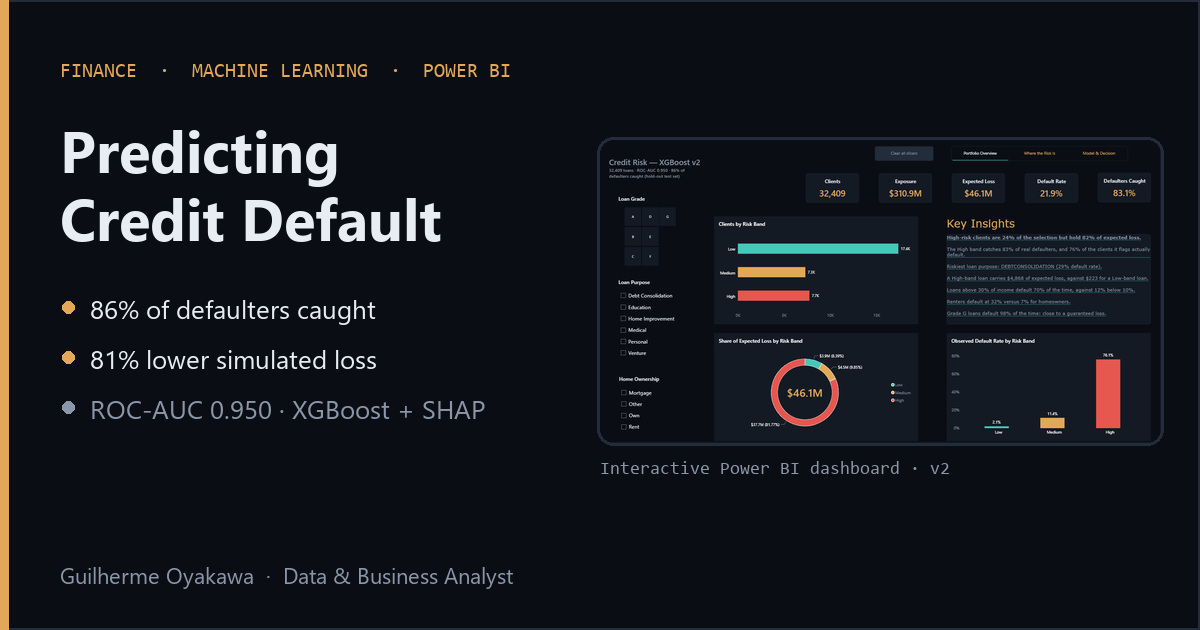
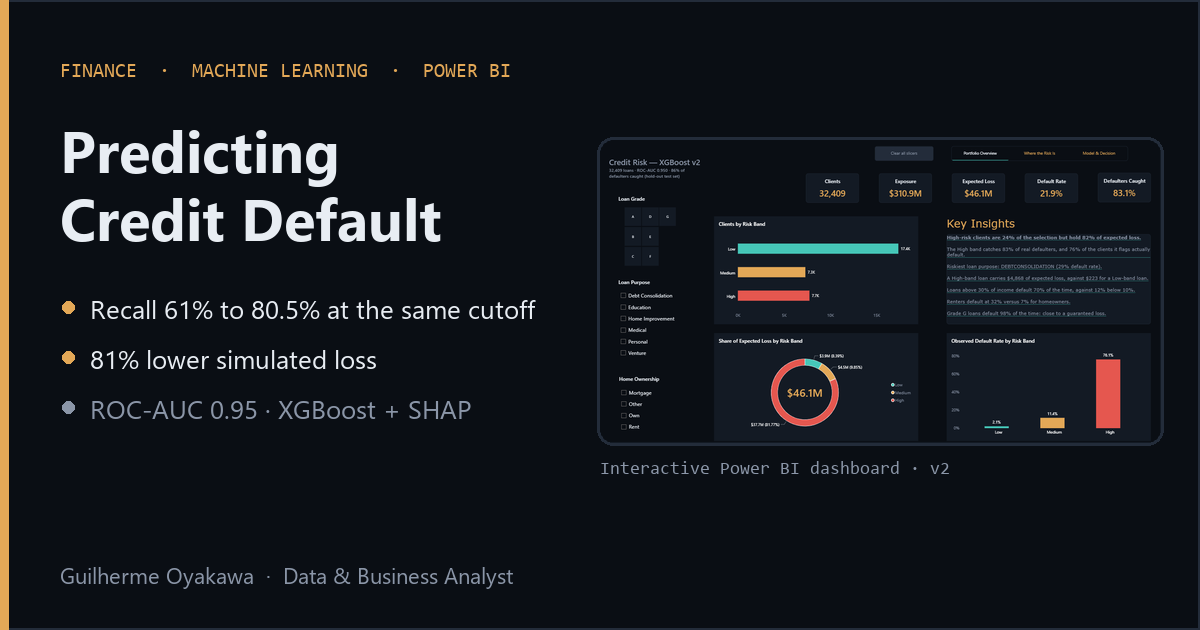
Correct the credit risk claims on the site after the v2 review
- Recall: separate the model gain (61.1% -> 80.5% at the same 0.5 cutoff, same precision) from the
  cutoff gain (80.5% -> 86.1% at 0.35, precision 83.1% -> 66.8%). Updated the hero, meta and social
  descriptions, key findings, the version-history bars and table, and the fair-comparison note,
  which no longer credits the methodology with the recall gain.
- Add the finding that the labels look rule-generated (2,339 renters with a loan of at least 31% of
  income all defaulted) and present ROC-AUC 0.95 and the 81% saving as an upper bound.
- Risk bands: label the 76.1% High band as whole-portfolio and add the held-out test figures.
- Home card and both social images (og_credit_risk, og_home) now show recall 61% -> 80.5%.

Changed region(s): [[0.0617, 0.4825, 0.4625, 0.5127], [0.2158, 0.6333, 0.4008, 0.6635]]

diff --git a/projects/credit-risk.html b/projects/credit-risk.html
@@ -4,18 +4,18 @@
 <meta charset="UTF-8">
 <meta name="viewport" content="width=device-width, initial-scale=1.0">
 <title>Predicting Credit Default — Guilherme Oyakawa</title>
-<meta name="description" content="A leakage-free XGBoost credit-default model with calibrated probabilities and SHAP explanations: 86% of defaulters caught and 81% lower simulated loss.">
+<meta name="description" content="A leakage-free XGBoost credit-default model with calibrated probabilities and SHAP explanations: recall from 61% to 80.5% at the same cutoff (86% at a recall-first cutoff) and a simulated 81% lower loss.">
 <link rel="canonical" href="https://www.guilhermeoyakawa.com.br/projects/credit-risk.html">
 <meta property="og:type" content="article">
 <meta property="og:title" content="Predicting Credit Default — Guilherme Oyakawa">
-<meta property="og:description" content="A leakage-free XGBoost credit-default model: 86% of defaulters caught and 81% lower simulated loss, with an interactive Power BI dashboard.">
+<meta property="og:description" content="A leakage-free XGBoost credit-default model: recall from 61% to 80.5% at the same cutoff (86% at a recall-first cutoff) and a simulated 81% lower loss, with an interactive Power BI dashboard.">
 <meta property="og:url" content="https://www.guilhermeoyakawa.com.br/projects/credit-risk.html">
 <meta property="og:image" content="https://www.guilhermeoyakawa.com.br/img/og_credit_risk.png">
 <meta property="og:image:width" content="1200">
 <meta property="og:image:height" content="630">
 <meta name="twitter:card" content="summary_large_image">
 <meta name="twitter:title" content="Predicting Credit Default — Guilherme Oyakawa">
-<meta name="twitter:description" content="86% of defaulters caught, 81% lower simulated loss. XGBoost, SHAP and Power BI.">
+<meta name="twitter:description" content="Recall 61% to 80.5% at the same cutoff (86% recall-first), 81% lower simulated loss. XGBoost, SHAP and Power BI.">
 <meta name="twitter:image" content="https://www.guilhermeoyakawa.com.br/img/og_credit_risk.png">
 <link rel="preconnect" href="https://fonts.googleapis.com">
 <link rel="preconnect" href="https://fonts.gstatic.com" crossorigin>
@@ -398,11 +398,11 @@
       <a class="back-link reveal" href="../index.html#projects">&larr; Back to projects</a>
       <span class="eyebrow reveal">FINANCE &middot; MACHINE LEARNING &middot; XGBOOST &middot; SHAP</span>
       <h1 class="reveal">Predicting Credit Default</h1>
-      <p class="tagline reveal">A leakage-free machine-learning pipeline that estimates every applicant's probability of default and turns it into approve / review / reject decisions &mdash; catching 86% of defaulters and cutting simulated losses by 81%.</p>
+      <p class="tagline reveal">A leakage-free machine-learning pipeline that estimates every applicant's probability of default and turns it into approve / review / reject decisions &mdash; lifting recall from 61% to 80.5% at the same cutoff (86% at a recall-first cutoff) and cutting simulated losses by 81% on this dataset.</p>
       <div class="stat-pills reveal">
         <span class="stat-pill">32,409 loans analysed</span>
-        <span class="stat-pill">ROC-AUC 0.950</span>
-        <span class="stat-pill">86% of defaulters caught</span>
+        <span class="stat-pill">ROC-AUC 0.95 (dataset ceiling)</span>
+        <span class="stat-pill">Recall 61% &rarr; 80.5% at the same cutoff</span>
         <span class="stat-pill">81% lower simulated loss</span>
       </div>
       <div class="detail-cta-row reveal">
@@ -488,11 +488,12 @@
       <span class="eyebrow reveal">Key Findings</span>
       <h2 class="reveal">What the model and the data showed</h2>
       <ul class="findings-list reveal">
-        <li><strong>86% of defaulters caught.</strong> The tuned XGBoost recalls 86.1% of defaulters (95% CI 84.7% to 87.6%) at 66.8% precision. For comparison, the original k-NN caught 61.1% at the default 0.5 cutoff.</li>
-        <li><strong>81% lower simulated loss.</strong> Using the model as a credit filter cuts the simulated loss from USD 13.97M to USD 2.67M versus approving every loan (95% CI 79.1% to 82.6%). The naive "reject grades D to G" rule saves 37.3%. Across a range of cost assumptions the saving stays between 75.5% and 84.3%.</li>
-        <li><strong>Risk bands separate clients cleanly.</strong> Observed default rates are 2.1% for Low risk (17,364 clients), 11.4% for Medium (7,302) and 76.1% for High (7,743). The High band holds about 82% of the expected loss.</li>
+        <li><strong>The model catches 80.5% of defaulters where k-NN catches 61.1%.</strong> Both are measured at the same default 0.5 cutoff, and precision is unchanged (83.1% vs 82.6%): that is the gain of the model. Lowering the cutoff to the tuned 0.35 raises recall further to 86.1% (95% CI 84.7% to 87.6%), but precision falls to 66.8%: that is the gain of the cutoff, and it is a trade-off, not a free improvement.</li>
+        <li><strong>81% lower simulated loss.</strong> Using the model as a credit filter cuts the simulated loss from USD 13.97M to USD 2.67M versus approving every loan (95% CI 79.1% to 82.6%). The naive "reject grades D to G" rule saves 37.3%. Across a range of cost assumptions the saving stays between 75.5% and 84.3%. Like the ROC-AUC, it is an upper bound for this dataset (see below).</li>
+        <li><strong>Risk bands separate clients cleanly.</strong> On the whole portfolio (out-of-fold scores) the observed default rates are 2.1% for Low risk (17,364 clients), 11.4% for Medium (7,302) and 76.1% for High (7,743), and the High band holds about 82% of the expected loss. On the held-out test set, the model fitted on the training data gives 2.8%, 11.4% and 68.1% for the three bands, so new clients should be expected to look like the second set.</li>
         <li><strong>Loan size relative to income is the sharpest signal.</strong> Loans above 30% of income default 70.4% of the time, against 11.6% below 10%. A prior default on file lifts the rate from 18.4% to 37.9%.</li>
         <li><strong>The model is more than the lender's own score.</strong> Without loan grade and interest rate, ROC-AUC falls from 0.950 to 0.904 &mdash; part of the signal is earlier pricing, but a substantial independent signal remains. Removing age costs almost nothing (0.948).</li>
+        <li><strong>The labels look rule-generated, so the headline figures are a ceiling.</strong> All 2,339 renters whose loan is at least 31% of their income defaulted, with no exception: 7% of the clients and 33% of all defaults. A decision tree with just two levels already reaches a ROC-AUC of about 0.80, and without that group the out-of-fold ROC-AUC falls from 0.951 to 0.926. Real portfolios rarely contain rules this clean, so 0.95 and the 81% saving are an upper bound for this dataset, not an expectation for real data.</li>
       </ul>
       <figure class="chart-figure reveal">
         <img src="img/credit_risk_shap_beeswarm.png" alt="SHAP beeswarm plot showing how each feature pushes the XGBoost default prediction up or down" loading="lazy">
@@ -510,7 +511,8 @@
       <div class="delta-box reveal">
         <div class="delta-title">Defaulters caught (recall)</div>
         <div class="delta-row"><span class="delta-label">v1 &middot; k-NN</span><div class="delta-track"><div class="delta-bar v1" style="width:61%"></div></div><span class="delta-val">61%</span></div>
-        <div class="delta-row"><span class="delta-label">v2 &middot; XGBoost (tuned)</span><div class="delta-track"><div class="delta-bar v2" style="width:86.1%"></div></div><span class="delta-val">86.1%</span></div>
+        <div class="delta-row"><span class="delta-label">v2 &middot; same 0.5 cutoff</span><div class="delta-track"><div class="delta-bar v2" style="width:80.5%"></div></div><span class="delta-val">80.5%</span></div>
+        <div class="delta-row"><span class="delta-label">v2 &middot; recall-first cutoff</span><div class="delta-track"><div class="delta-bar v2" style="width:86.1%"></div></div><span class="delta-val">86.1%</span></div>
       </div>
 
       <div class="table-wrap reveal">
@@ -522,10 +524,11 @@
             <tr><td>Preprocessing</td><td>Imputation and encoding on the full dataset before the split</td><td>Leakage-free pipelines, fitted on training data only</td></tr>
             <tr><td>Evaluation</td><td>One train/test split</td><td>Stratified 5-fold cross-validation, tuned threshold, bootstrap confidence intervals</td></tr>
             <tr><td>Best model</td><td>k-NN (k=5)</td><td>XGBoost (tuned)</td></tr>
-            <tr class="best"><td>Defaulters caught (recall)</td><td>61%</td><td>86.1% (95% CI 84.7%&ndash;87.6%)</td></tr>
-            <tr><td>Precision on defaulters</td><td>85%</td><td>66.8% (the price of catching many more defaulters)</td></tr>
-            <tr><td>Overall accuracy</td><td>89%</td><td>87.6% at the recall-first threshold</td></tr>
-            <tr class="best"><td>ROC-AUC</td><td>Not measured</td><td>0.950</td></tr>
+            <tr class="best"><td>Defaulters caught (recall) at the default 0.5 cutoff</td><td>61%</td><td>80.5%</td></tr>
+            <tr><td>Precision on defaulters at the default 0.5 cutoff</td><td>85%</td><td>83.1%</td></tr>
+            <tr><td>Overall accuracy at the default 0.5 cutoff</td><td>89%</td><td>92.2%</td></tr>
+            <tr><td>Recall at a recall-first cutoff (0.35)</td><td>Not tuned</td><td>86.1% (95% CI 84.7%&ndash;87.6%), with 66.8% precision</td></tr>
+            <tr class="best"><td>ROC-AUC</td><td>Not measured</td><td>0.950 (an upper bound for this dataset)</td></tr>
             <tr><td>Probability calibration</td><td>No</td><td>Isotonic (Brier score 0.064 &rarr; 0.052)</td></tr>
             <tr><td>Explainability</td><td>None</td><td>SHAP values</td></tr>
             <tr class="best"><td>Business value</td><td>Not quantified</td><td>81% lower simulated loss (USD 13.97M &rarr; 2.67M)</td></tr>
@@ -533,7 +536,7 @@
           </tbody>
         </table>
       </div>
-      <p class="dashboard-caption reveal">Fair comparison: the same k-NN rebuilt in v2 at the same 0.5 cutoff catches 61.1% of defaulters with 82.6% precision and 88.7% accuracy &mdash; essentially the v1 result. The improvement comes from the leakage-free methodology, a stronger model (XGBoost) and a threshold chosen for the business goal, not from a different dataset. The precision drop is a deliberate trade-off: the lender prefers reviewing more clients over missing defaulters.</p>
+      <p class="dashboard-caption reveal">Fair comparison: the same k-NN rebuilt in v2 at the same 0.5 cutoff catches 61.1% of defaulters with 82.6% precision and 88.7% accuracy &mdash; essentially the v1 result. So the leakage-free methodology makes the estimate honest but does not by itself raise recall. The improvement has two separate sources: the model (at the same cutoff, recall goes from 61.1% to 80.5% with the same precision) and the cutoff (lowering it to 0.35 takes recall from 80.5% to 86.1%, while precision falls from 83.1% to 66.8%). The second is a deliberate trade-off, not a free gain: any model gains recall this way (k-NN reaches 86.0% at a 0.05 cutoff, with 41.9% precision).</p>
 
       <h3 class="subhead reveal">The Power BI dashboard, before and after</h3>
       <div class="compare-grid reveal">
@@ -598,7 +601,7 @@
       <span class="eyebrow reveal">Impact &amp; Limitations</span>
       <div class="impact-box reveal">
         <p>The result is a path from a single yes/no score to a risk-based lending policy: approve the Low band, review the Medium band, and focus scarce attention on the High band where most of the expected loss sits. The fix is not to stop lending &mdash; it is to price and screen risk with evidence.</p>
-        <p style="margin-top:16px; font-size:14px; color:var(--text-faint);">Caveats: cost figures are illustrative US-dollar assumptions (the notebook includes a sensitivity analysis); the data is a snapshot with no time dimension and outcomes only for approved loans; and variables such as age may be restricted in real credit decisions, so a compliance review would be required before any real use.</p>
+        <p style="margin-top:16px; font-size:14px; color:var(--text-faint);">Caveats: the ROC-AUC of 0.95 and the 81% saving are an upper bound for this dataset, whose labels look rule-generated (see the key findings); cost figures are illustrative US-dollar assumptions (the notebook includes a sensitivity analysis); the data is a snapshot with no time dimension and outcomes only for approved loans; and variables such as age may be restricted in real credit decisions, so a compliance review would be required before any real use.</p>
       </div>
     </div>
   </section>

diff --git a/index.html b/index.html
@@ -549,9 +549,9 @@
         <a class="project-card full featured" href="projects/credit-risk.html">
           <img class="project-thumb" src="projects/img/card_credit_risk.jpg" alt="Preview of the Credit Risk Power BI dashboard" loading="lazy" width="960" height="540">
           <div class="project-body">
-          <span class="project-metric">86% RECALL · ROC-AUC 0.95</span>
+          <span class="project-metric">RECALL 61% → 80.5% · ROC-AUC 0.95</span>
           <h3>Predicting Credit Default</h3>
-          <p>Rebuilt a loan-default model on 32,409 loans with leakage-free pipelines, a tuned XGBoost, calibrated probabilities and SHAP explanations. It catches 86% of defaulters and cuts simulated losses by 81% versus approving every loan, with Low / Medium / High risk bands and a companion Power BI dashboard.</p>
+          <p>Rebuilt a loan-default model on 32,409 loans with leakage-free pipelines, a tuned XGBoost, calibrated probabilities and SHAP explanations. At the same cutoff it lifts recall from 61% to 80.5% (86% with a recall-first cutoff) and cuts simulated losses by 81% versus approving every loan, with Low / Medium / High risk bands and a companion Power BI dashboard.</p>
           <span class="project-cta">Explore the full project →</span>
           </div>
         </a>
